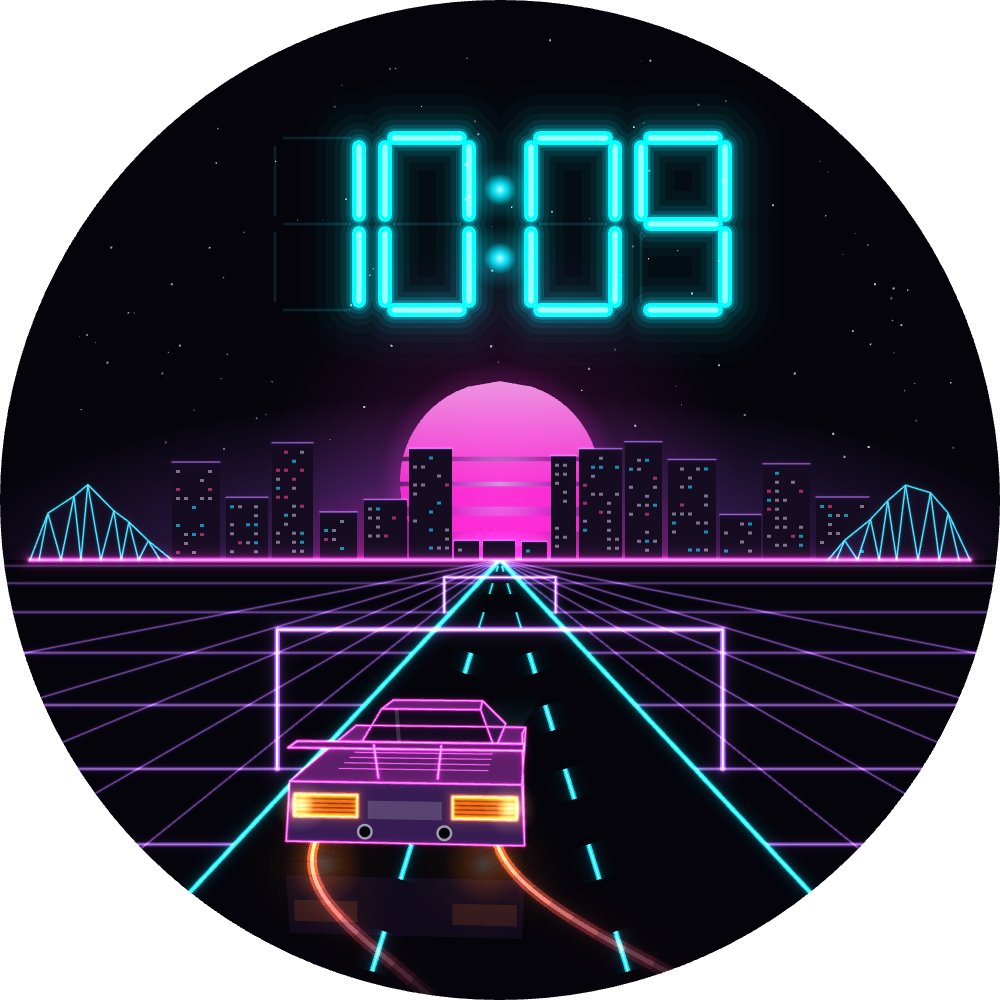
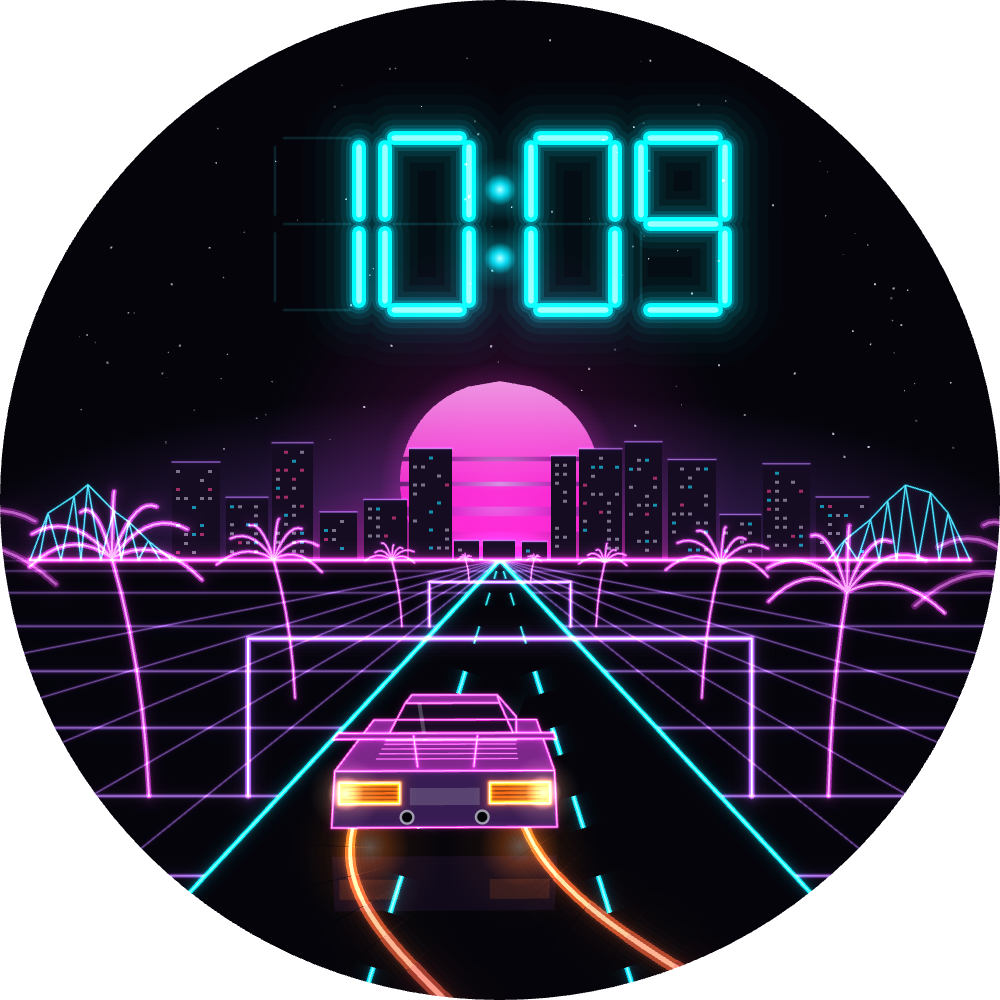
Horizon: game-like speed, random weave, brake lights, flames, palms
Speed now swells and drops like a game (three sines, 0.15 to 1.85 rungs a
second) and travel() is its exact integral, read by the rungs, lane dashes,
gates, palms and trails, so the scene never jumps on a dropped frame. The
car pulls ahead when fast and drops back when braking; brake lights flare as
it slows and cyan exhaust flames flicker as it surges. Trails stretch with
speed and shrink to stubs when it crawls. The weave mixes three rhythms that
never line up. Neon palms line both roadsides, each keeping its own height
and lean as it rolls past. 1.6 ms per 1080 frame on the Mac.

Changed region(s): [[0.0, 0.496, 1.0, 1.0], [0.775, 0.837, 0.868, 0.899], [0.155, 0.837, 0.217, 0.899]]

diff --git a/src/apps/clock/neon/faces/horizon.ts b/src/apps/clock/neon/faces/horizon.ts
@@ -34,12 +34,77 @@ const LANE = 140; // lane separators
 // The car holds a fixed depth ahead of you. Its weave is a pure function of
 // time, so where a tail light was d seconds ago is weave(t - d), now d * ROLL
 // closer: the trail needs no stored history and curves with the weave.
-const CAR_U = 0.8;
-const CAR_S = spread(CAR_U);
-const TRAIL_S = (1.08 - CAR_U) / ROLL;
-const TAIL_X = 80; // tail light centres on screen at the car (120 floor units)
-const TAIL_H = 52; // and their height (about 78 floor units: light centre 58 x HY)
-const weave = (t: number) => 120 * Math.sin((t * TAU) / 9) + 25 * Math.sin((t * TAU) / 3.7 + 1.3);
+const CAR_U = 0.8; // the car's depth at cruising speed
+const TAIL_WX = 120; // tail light centres from the car's middle, floor units
+const TAIL_WY = 78; // their height above the road, floor units
+
+// Speed, in rungs a second, like a game's: long swells with quicker surges
+// on top, from a near crawl (0.15) to almost double (1.85). Three sines with
+// periods that never line up, so it never visibly repeats. travel() is its
+// exact integral, the distance driven, and everything that moves (rungs,
+// dashes, gates, palms, trails) reads travel(), so a dropped frame or a
+// remount never makes the world jump.
+const SPEEDS: ReadonlyArray<readonly [number, number, number]> = [
+  [0.5, 19, 0], // amplitude, period in seconds, phase
+  [0.2, 6.1, 1.7],
+  [0.15, 41, 4.2],
+];
+const speed = (t: number) => SPEEDS.reduce((v, [a, per, ph]) => v + a * Math.sin((TAU * t) / per + ph), 1);
+const travel = (t: number) => SPEEDS.reduce((d, [a, per, ph]) => d - ((a * per) / TAU) * Math.cos((TAU * t) / per + ph), t);
+const accel = (t: number) => SPEEDS.reduce((g, [a, per, ph]) => g + ((a * TAU) / per) * Math.cos((TAU * t) / per + ph), 0);
+// The car pulls ahead when it is fast and drops back toward you when it brakes.
+const carDepth = (t: number) => CAR_U - 0.05 * (speed(t) - 1);
+// The weave: three rhythms that never line up, kept inside the road (max 170
+// against 240 of room).
+const weave = (t: number) =>
+  95 * Math.sin((t * TAU) / 9) + 35 * Math.sin((t * TAU) / 3.7 + 1.3) + 40 * Math.sin((t * TAU) / 17.3 + 0.4);
+
+// Palms: one every PALM_EVERY rungs on each side, outside the gates, rolling
+// with the floor. A palm keeps its id as it rolls, so its height and lean
+// (from N.hash(id)) stay its own.
+const PALM_EVERY = 1.5;
+const PALM_X = ROAD + 200;
+interface Palm { u: number; id: number }
+const palmSlots = (dist: number): Palm[] => {
+  const k0 = Math.floor(dist / PALM_EVERY);
+  const phase = dist / PALM_EVERY - k0;
+  const out: Palm[] = [];
+  for (let n = 0; n < 8; n++) out.push({ u: (n + phase) * PALM_EVERY * ROLL, id: k0 - n });
+  return out;
+};
+const FRONDS = [-170, -142, -116, -90, -64, -38, -10].map((d) => (d * Math.PI) / 180);
+
+function palms(ctx: CanvasRenderingContext2D, N: NeonKit, list: Palm[]) {
+  const col = N.mix(N.c.magenta, N.c.violet, 0.35);
+  for (const p of list) {
+    if (p.u < 0.04 || p.u > 0.93) continue;
+    const fade = Math.min(1, (p.u - 0.04) / 0.2) * Math.min(1, (0.93 - p.u) / 0.1);
+    const sc = spread(p.u);
+    const by = floorY(p.u);
+    for (const side of [-1, 1]) {
+      const h = N.hash(p.id * 2 + (side > 0 ? 1 : 0));
+      const H = 380 + 90 * h;
+      const lean = side * (30 + 50 * h);
+      const bx = CX + side * (PALM_X + 60 * h) * sc;
+      const tx = bx + lean * sc;
+      const ty = by - H * sc;
+      N.glow(ctx, col, 1.5 + 7 * sc, (c) => {
+        // A trunk that bows outward, then the crown: fronds that arc up and droop.
+        c.moveTo(bx, by);
+        c.quadraticCurveTo(bx + lean * 0.15 * sc, by - H * 0.55 * sc, tx, ty);
+        FRONDS.forEach((a, fi) => {
+          const len = (150 + 40 * N.hash(p.id * 7 + fi + side)) * sc;
+          const ang = a + (N.hash(p.id * 3 + fi) - 0.5) * 0.2;
+          c.moveTo(tx, ty);
+          c.quadraticCurveTo(
+            tx + Math.cos(ang) * len * 0.5, ty + Math.sin(ang) * len * 0.5 - 40 * sc,
+            tx + Math.cos(ang) * len, ty + Math.sin(ang) * len + 55 * sc,
+          );
+        });
+      }, { intensity: 0.75 * fade, halo: 0.5 });
+    }
+  }
+}
 
 // Gates: one every GATE_S seconds, rolling with the floor, posts just outside
 // the road edges. GATE_H is in floor units and below the eye height (450,
@@ -50,11 +115,9 @@ const GATE_S = 3;
 const GATE_X = ROAD + 60;
 const GATE_H = 300;
 
-/** Gate depths now: GATE_S seconds apart in time is GATE_S * ROLL in u. Keyed
- *  on the clock's seconds, which divide 60 by GATE_S, so the minute rolls over
- *  without a jump. */
-const gateDepths = (sf: number) => {
-  const phase = (sf % GATE_S) / GATE_S;
+/** Gate depths now: one every GATE_S rungs of distance driven. */
+const gateDepths = (dist: number) => {
+  const phase = (((dist % GATE_S) + GATE_S) % GATE_S) / GATE_S;
   const step = GATE_S * ROLL;
   const out: number[] = [];
   for (let n = 0; n < 5; n++) out.push((n + phase) * step);
@@ -122,22 +185,31 @@ function build(N: NeonKit, state: State) {
   state.peaks = [range(30, 172, 11), range(970, 828, 29)];
 }
 
-function trails(ctx: CanvasRenderingContext2D, N: NeonKit, t: number) {
-  const SEGS = 14;
+function trails(ctx: CanvasRenderingContext2D, N: NeonKit, t: number, carU: number) {
+  // Where a tail light was `age` seconds ago is now as much closer as the
+  // road travelled since: travel(t) - travel(t - age). So the trail stretches
+  // when the car is fast and shrinks to a stub when it crawls.
+  const SEGS = 16;
   const STEPS = 3;
+  const WINDOW = 4; // seconds of history at most
+  const dNow = travel(t);
+  const carS = spread(carU);
   for (let i = 0; i < SEGS; i++) {
     const f = i / SEGS;
-    const uMid = CAR_U + ((i + 0.5) / SEGS) * TRAIL_S * ROLL;
-    const grow = spread(uMid) / CAR_S;
+    const age0 = f * WINDOW;
+    const u0 = carU + (dNow - travel(t - age0)) * ROLL;
+    if (u0 > 1.1) break;
+    const ageMid = (f + 0.5 / SEGS) * WINDOW;
+    const grow = spread(carU + (dNow - travel(t - ageMid)) * ROLL) / carS;
     // Hot orange at the car, cooling to pink as it streams away.
     N.glow(ctx, N.mix(N.c.orange, N.c.pink, f), 8 * grow, (c) => {
       for (const side of [-1, 1]) {
         for (let k = 0; k <= STEPS; k++) {
-          const d = ((i + k / STEPS) / SEGS) * TRAIL_S;
-          const u = CAR_U + d * ROLL;
+          const age = ((i + k / STEPS) / SEGS) * WINDOW;
+          const u = carU + (dNow - travel(t - age)) * ROLL;
           const sc = spread(u);
-          const px = CX + (weave(t - d) + (side * TAIL_X) / CAR_S) * sc;
-          const py = floorY(u) - (TAIL_H * sc) / CAR_S;
+          const px = CX + (weave(t - age) + side * TAIL_WX) * sc;
+          const py = floorY(u) - TAIL_WY * sc;
           if (k === 0) c.moveTo(px, py);
           else c.lineTo(px, py);
         }
@@ -235,15 +307,17 @@ const pathOf = (c: CanvasRenderingContext2D, pts: [number, number][]) => {
 };
 
 /** Light from a gate passing over the car: 1 when a gate is right above it. */
-const gateLight = (depths: number[]) =>
-  depths.reduce((m, u) => Math.max(m, Math.exp(-(((u - CAR_U) / 0.07) ** 2))), 0);
+const gateLight = (depths: number[], carU: number) =>
+  depths.reduce((m, u) => Math.max(m, Math.exp(-(((u - carU) / 0.07) ** 2))), 0);
 
-function car(ctx: CanvasRenderingContext2D, N: NeonKit, t: number, lit: number) {
+/** lit: a gate overhead (0 to 1). brake and boost: how hard the car is
+ *  slowing or speeding up (0 to 1), for the brake lights and exhaust flames. */
+function car(ctx: CanvasRenderingContext2D, N: NeonKit, t: number, lit: number, carU: number, brake: number, boost: number) {
   const ink = N.c.magenta;
   const violet = N.c.violet;
   // Steer into the weave: the nose points where the car is heading.
   const vx = (weave(t + 0.05) - weave(t - 0.05)) / 0.1;
-  const pose: Pose = { X: weave(t), Z0: F / CAR_S, yaw: N.clamp(vx * 0.003, -0.26, 0.26), bob: 1.5 * Math.sin(t * 11) };
+  const pose: Pose = { X: weave(t), Z0: F / spread(carU), yaw: N.clamp(vx * 0.003, -0.26, 0.26), bob: 1.5 * Math.sin(t * 11) };
   const cam: W3 = { x: 0, y: CAM_Y, z: 0 };
   const centre = world(CENTRE, pose);
   const proj = (pts: V3[], mirror = false) => pts.map((v) => screen(world(v, pose), mirror));
@@ -280,9 +354,10 @@ function car(ctx: CanvasRenderingContext2D, N: NeonKit, t: number, lit: number) 
   for (const l of LIGHTS) pathOf(ctx, proj(l, true));
   ctx.fill();
   ctx.restore();
-  const base = screen(world(onRear(0, 0), pose));
-  N.glowDot(ctx, N.c.orange, base[0] - TAIL_X, base[1] + 4, 20, 0.26);
-  N.glowDot(ctx, N.c.orange, base[0] + TAIL_X, base[1] + 4, 20, 0.26);
+  for (const side of [-1, 1]) {
+    const [gx, gy] = screen(world([side * TAIL_WX, 0, 0], pose));
+    N.glowDot(ctx, N.c.orange, gx, gy + 4, 20, 0.26 + 0.25 * brake);
+  }
 
   // Tyres show under the body from behind.
   ctx.fillStyle = STAGE;
@@ -364,11 +439,12 @@ function car(ctx: CanvasRenderingContext2D, N: NeonKit, t: number, lit: number) 
   ctx.globalAlpha = 1;
   N.glow(ctx, N.c.orange, 4, (c) => {
     for (const l of lights) pathOf(c, l);
-  }, { intensity: 0.9 + 0.1 * lit, halo: 0.8 });
+  }, { intensity: 0.85 + 0.1 * lit + 0.35 * brake, halo: 0.8 + 0.4 * brake });
   const hot = N.mix(N.c.orange, N.c.white, 0.55);
   for (const v of [onRear(-158, 58), onRear(158, 58)]) {
     const [hx, hy] = screen(world(v, pose));
-    N.glowDot(ctx, hot, hx, hy, 7, 0.85 + 0.15 * lit);
+    // Brake lights: the hot ends swell when the car slows.
+    N.glowDot(ctx, hot, hx, hy, 7 + 6 * brake, 0.85 + 0.15 * lit);
   }
 
   // A blank plate, softly lit; two chrome exhaust tips.
@@ -388,6 +464,16 @@ function car(ctx: CanvasRenderingContext2D, N: NeonKit, t: number, lit: number) 
     ctx.strokeStyle = N.rgba(N.c.white, 0.6);
     ctx.lineWidth = 2.5;
     ctx.stroke();
+    // Accelerating: a flickering cyan-white flame out of the tip, toward you.
+    if (boost > 0.05) {
+      const flick = 0.6 + 0.4 * N.noise(t * 30 + ex);
+      const len = r * (3 + 7 * boost * flick);
+      N.glow(ctx, N.c.cyan, r * 0.9, (c) => {
+        c.moveTo(cx, cy);
+        c.lineTo(cx, cy + len);
+      }, { intensity: boost * flick, halo: 0.6 });
+      N.glowDot(ctx, N.mix(N.c.cyan, N.c.white, 0.6), cx, cy, r * 0.8, boost * flick);
+    }
   }
 
   // The wing on its struts, nearest of all.
@@ -507,7 +593,13 @@ const face: NeonFace<State> = {
     ctx.fill();
 
     // The floor: violet rungs rolling toward you, one spacing a second.
-    const fr = T.sf % 1;
+    // The drive: distance, speed, the car's depth, braking and boosting.
+    const dist = travel(T.t);
+    const carU = carDepth(T.t);
+    const a = accel(T.t);
+    const brake = N.clamp(-a / 0.25, 0, 1);
+    const boost = N.clamp(a / 0.2, 0, 1);
+    const fr = ((dist % 1) + 1) % 1;
     ctx.save();
     ctx.beginPath();
     ctx.rect(0, HZ, 1000, 500);
@@ -655,16 +747,19 @@ const face: NeonFace<State> = {
 
     // Gates behind the car, then the trails and the car, then gates nearer
     // than the car, which pass over it.
-    const depths = gateDepths(T.sf);
-    gates(ctx, N, depths.filter((u) => u <= CAR_U));
-    trails(ctx, N, T.t);
-    car(ctx, N, T.t, gateLight(depths));
-    gates(ctx, N, depths.filter((u) => u > CAR_U));
+    const depths = gateDepths(dist);
+    const trees = palmSlots(dist);
+    gates(ctx, N, depths.filter((u) => u <= carU));
+    palms(ctx, N, trees.filter((p) => p.u <= carU));
+    trails(ctx, N, T.t, carU);
+    car(ctx, N, T.t, gateLight(depths, carU), carU, brake, boost);
+    gates(ctx, N, depths.filter((u) => u > carU));
+    palms(ctx, N, trees.filter((p) => p.u > carU));
 
     // The colon: two cyan dots that breathe once a second.
     const DH = 172, y0 = 138, DW = 84, GAP = 26, COLON = 62;
     const colonX = CX - (DW * 4 + GAP * 2 + COLON) / 2 + (DW * 2 + GAP) + COLON / 2;
-    const on = 0.55 + 0.45 * (0.5 + 0.5 * Math.cos(TAU * fr));
+    const on = 0.55 + 0.45 * (0.5 + 0.5 * Math.cos(TAU * (T.sf % 1)));
     N.glowDot(ctx, cyan, colonX, y0 + DH * 0.3, 8, on);
     N.glowDot(ctx, cyan, colonX, y0 + DH * 0.7, 8, on);
   },
